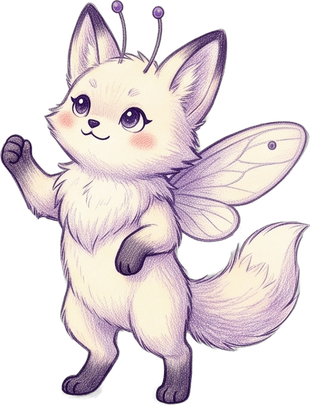
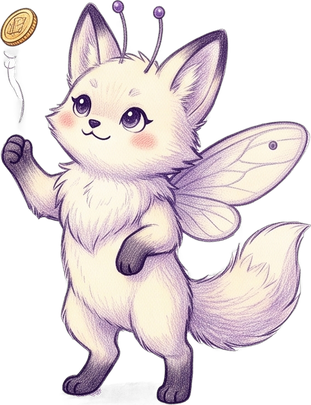
Build 273: court poses for every world-1 student look (her «Делай»): 20 SYNTX sheets (4 species x base + 4 outfits, art/court_poses/*_r0.jpg; fernhorn_t4 and starwhisker_t4 redrawn once: the first sheets lost the outfit) cut into 120 sprites (tools/cut_poses3x2.py, tools/cut_poses_blobs.py for irreg

diff --git a/js/game.js b/js/game.js
@@ -2,13 +2,13 @@
 import {
   OFFLINE_CAP_SEC, MAX_DESKS, MAX_ITEM_LEVEL, MAX_TEACHER_LEVEL, MAX_TIME_LEVEL,
   CLASSES, SPECIES, NAMES, MISSIONS, WORLDS, WORLD, META,
-} from './data.js?v=272';
-import { EMOJI_RE, emojiImage, preloadEmoji, watchEmoji, emojiHtml } from './emoji.js?v=272';
+} from './data.js?v=273';
+import { EMOJI_RE, emojiImage, preloadEmoji, watchEmoji, emojiHtml } from './emoji.js?v=273';
 
 const SAVE_KEY = WORLD === 1 ? 'magicschool.save.v2' : 'magicschool.save.v2.w' + WORLD;   // every world keeps its own save
 const saveKeyOf = (w) => (w === 1 ? 'magicschool.save.v2' : 'magicschool.save.v2.w' + w);
 const VERSION = '0.9';
-const BUILD = 272;   // keep equal to the ?v= number in index.html
+const BUILD = 273;   // keep equal to the ?v= number in index.html
 const $ = (s, r = document) => r.querySelector(s);
 const rnd = (a) => a[Math.floor(Math.random() * a.length)];
 
@@ -851,7 +851,7 @@ const courtCap = () => (WORLD === 1 && COURT ? COURT_CAP0 : 0);
 const courtRoom = () => courtList.length < courtCap();
 const courtFor = (i) => courtList.reduce((n, a) => n + (a.goal && a.goal.i === i && !a.goal.brk ? 1 : 0), 0);
 const COURT_MOOD = 0.6;   // mood per second while waiting in the court
-const COURT_BREAK = 0.2;  // share of students who take a short break in the court after a lesson (the court stays alive when nobody waits)
+const COURT_BREAK = 0.3;  // share of students who take a short break in the court after a lesson (the court stays alive when nobody waits)
 const courtBreakOk = () => courtCap() > 0 && courtList.length < courtCap() - 4;   // breaks leave room for those who really wait
 const COURT_ACTS = ['bench', 'bench', 'tag', 'coin', 'sparks', 'birds', 'read'];
 function courtSpots() {   // fixed points per activity (a small fixed set keeps the path cache warm)
@@ -878,8 +878,11 @@ function goCourt(a, i, brk = false) {
 }
 function leaveCourt(a) { const k = courtList.indexOf(a); if (k >= 0) courtList.splice(k, 1); a.act = null; }
 function courtAct(a) {   // pick the next activity and walk to its spot
-  const v = courtSpots(); let act = rnd(COURT_ACTS); if (!v[act] || !v[act].length) act = 'tag';
-  const l = v[act] || []; if (!l.length) { a.state = 'court'; a.act = 'idle'; a.t = 0; a.dur = 3; return; }
+  const v = courtSpots(), near = (q) => Math.hypot(q.x - a.x, q.y - a.y) < 7;
+  // build 273: the next activity is one with a spot close by (in her demo they spent most of the time crossing the court)
+  const acts = inCourt(Math.floor(a.x), Math.floor(a.y)) ? COURT_ACTS.filter((k) => (v[k] || []).some(near)) : [];
+  let act = rnd(acts.length ? acts : COURT_ACTS); if (!v[act] || !v[act].length) act = 'tag';
+  const l0 = v[act] || [], l = l0.some(near) && acts.length ? l0.filter(near) : l0; if (!l.length) { a.state = 'court'; a.act = 'idle'; a.t = 0; a.dur = 3; return; }
   let p = rnd(l);
   if (act === 'bench') { const free = l.filter((q) => !courtList.some((o) => o !== a && o.act === 'bench' && o.spot === q)); if (!free.length) { act = 'tag'; p = rnd(v.tag); } else p = rnd(free); }   // one sitter per bench
   a.act = act; a.spot = p; a.laps = act === 'tag' ? 3 + Math.floor(Math.random() * 3) : 0;
@@ -890,7 +893,7 @@ function courtArrive(a) {
   if (!(a.goal && a.goal.t === 'k')) return;
   a.state = 'court'; a.t = 0;
   if (a.act === 'tag') { a.dur = 0.35; return; }   // a short stop, then on round the fountain
-  a.dur = 2.6 + Math.random() * 2.4;
+  a.dur = 4.5 + Math.random() * 4;   // build 273: longer in each pose (her demo: half the time they were walking between spots)
   if (a.act === 'coin') { const c = courtC(); a.flip = (c.x - c.y) < (a.x - a.y); a.back = (c.x + c.y) < (a.x + a.y); }
   else a.back = false;
 }
@@ -908,7 +911,7 @@ function stepCourt(a, dt) {
   a.t += dt; if (a.t < a.dur) return;
   if (a.act === 'tag' && a.laps-- > 0) { const v = courtSpots().tag, p = rnd(v); a.state = 'walk'; walk(a, p.x, p.y, () => courtArrive(a)); return; }
   if (a.act === 'coin') { const c = courtC(); popup('🪙✨', c.x, c.y, '#d4a017', 50); }
-  if (a.goal.brk) { leaveCourt(a); route(a, a.goal.i); return; }   // the break is over: on to the next class
+  if (a.goal.brk && (a.acts = (a.acts || 0) + 1) >= 2) { a.acts = 0; leaveCourt(a); route(a, a.goal.i); return; }   // a break = two activities, then on to the next class
   courtAct(a);
 }
 function goClass(a, i) {
@@ -2033,8 +2036,8 @@ if (WORLD === 1) for (const sp of SPECIES) for (let t = 1; t < 5; t++) for (cons
 for (const sp of SPECIES) for (const v of ['', '_back']) { const im = new Image(); im.src = `assets/creatures/${sp}${v}.png`; sprites[sp + v] = im; }   // front and back views
 // court poses (build 264, her pick «2»: real poses instead of icons; first test sheet: the moth fox without an outfit)
 const COURT_POSE = { bench: 'sit', tag: 'run', coin: 'coin', read: 'read', sparks: 'wand', birds: 'birds' };
-const COURT_POSE_ART = ['mothfox'];   // looks that have a pose sheet: species or species_tN
-if (WORLD === 1) for (const k of COURT_POSE_ART) for (const p of Object.values(COURT_POSE)) { const im = new Image(); im.onerror = () => {}; im.src = `assets/creatures/${k}_k_${p}.png?v=1`; sprites[k + '_k_' + p] = im; }
+const COURT_POSE_ART = SPECIES.flatMap((sp) => [sp, sp + '_t1', sp + '_t2', sp + '_t3', sp + '_t4']);   // every world-1 look (build 273, her «Делай»); a missing picture falls back to the standing sprite
+if (WORLD === 1) for (const k of COURT_POSE_ART) for (const p of Object.values(COURT_POSE)) { const im = new Image(); im.onerror = () => {}; im.src = `assets/creatures/${k}_k_${p}.png?v=2`; sprites[k + '_k_' + p] = im; }
 function courtPose(a) {   // the pose picture of a student busy in the court, or null (then the usual sprite and the icons)
   if (WORLD !== 1 || !a.goal || a.goal.t !== 'k' || !COURT_POSE[a.act]) return null;
   if (!(a.state === 'court' || (a.act === 'tag' && a.path && a.path.length))) return null;

diff --git a/index.html b/index.html
@@ -12,7 +12,7 @@
 <link rel="manifest" href="manifest.webmanifest">
 <link rel="apple-touch-icon" href="icons/icon-180.png?v=2">
 <link rel="icon" href="icons/icon-192.png?v=2">
-<link rel="stylesheet" href="style.css?v=272">
+<link rel="stylesheet" href="style.css?v=273">
 <script>/* iOS home-screen app: innerHeight / 100% / 100dvh are short by the status bar, a strip stayed at the bottom (her screenshots, builds 200-203); use the real screen height */
 (function(){function fit(){if(!(navigator.standalone||matchMedia('(display-mode: standalone)').matches))return;var h=Math.max(window.innerHeight,(Math.abs(window.orientation||0)===90?screen.width:screen.height));var r=document.documentElement;r.style.height=h+'px';if(document.body){document.body.style.height=h+'px';document.body.style.bottom='auto';}}fit();addEventListener('DOMContentLoaded',fit);addEventListener('resize',fit);addEventListener('orientationchange',function(){setTimeout(fit,300);});})();</script>
 </head>
@@ -41,6 +41,6 @@ setTimeout(function(){ if (window.__booted) return; var d=document.createElement
   d.querySelector('button').onclick=function(){ location.reload(); }; document.body.appendChild(d); }, 12000);
 if(!CanvasRenderingContext2D.prototype.roundRect){CanvasRenderingContext2D.prototype.roundRect=function(x,y,w,h){this.rect(x,y,w,h);};}
 </script>
-<script type="module" src="js/game.js?v=272"></script>
+<script type="module" src="js/game.js?v=273"></script>
 </body>
 </html>

diff --git a/js/emoji.js b/js/emoji.js
@@ -1,6 +1,6 @@
 // One emoji look on every device: emoji characters are replaced by bundled Twemoji pictures
 // (CC-BY 4.0, https://github.com/jdecked/twemoji), both in the page (DOM) and on the canvas.
-import { EMOJI_FILES } from './emoji-set.js?v=272';
+import { EMOJI_FILES } from './emoji-set.js?v=273';
 
 export const EMOJI_RE = /\p{Extended_Pictographic}(?:|\p{Extended_Pictographic}?|[\u{1F3FB}-\u{1F3FF}])*/gu;
 
